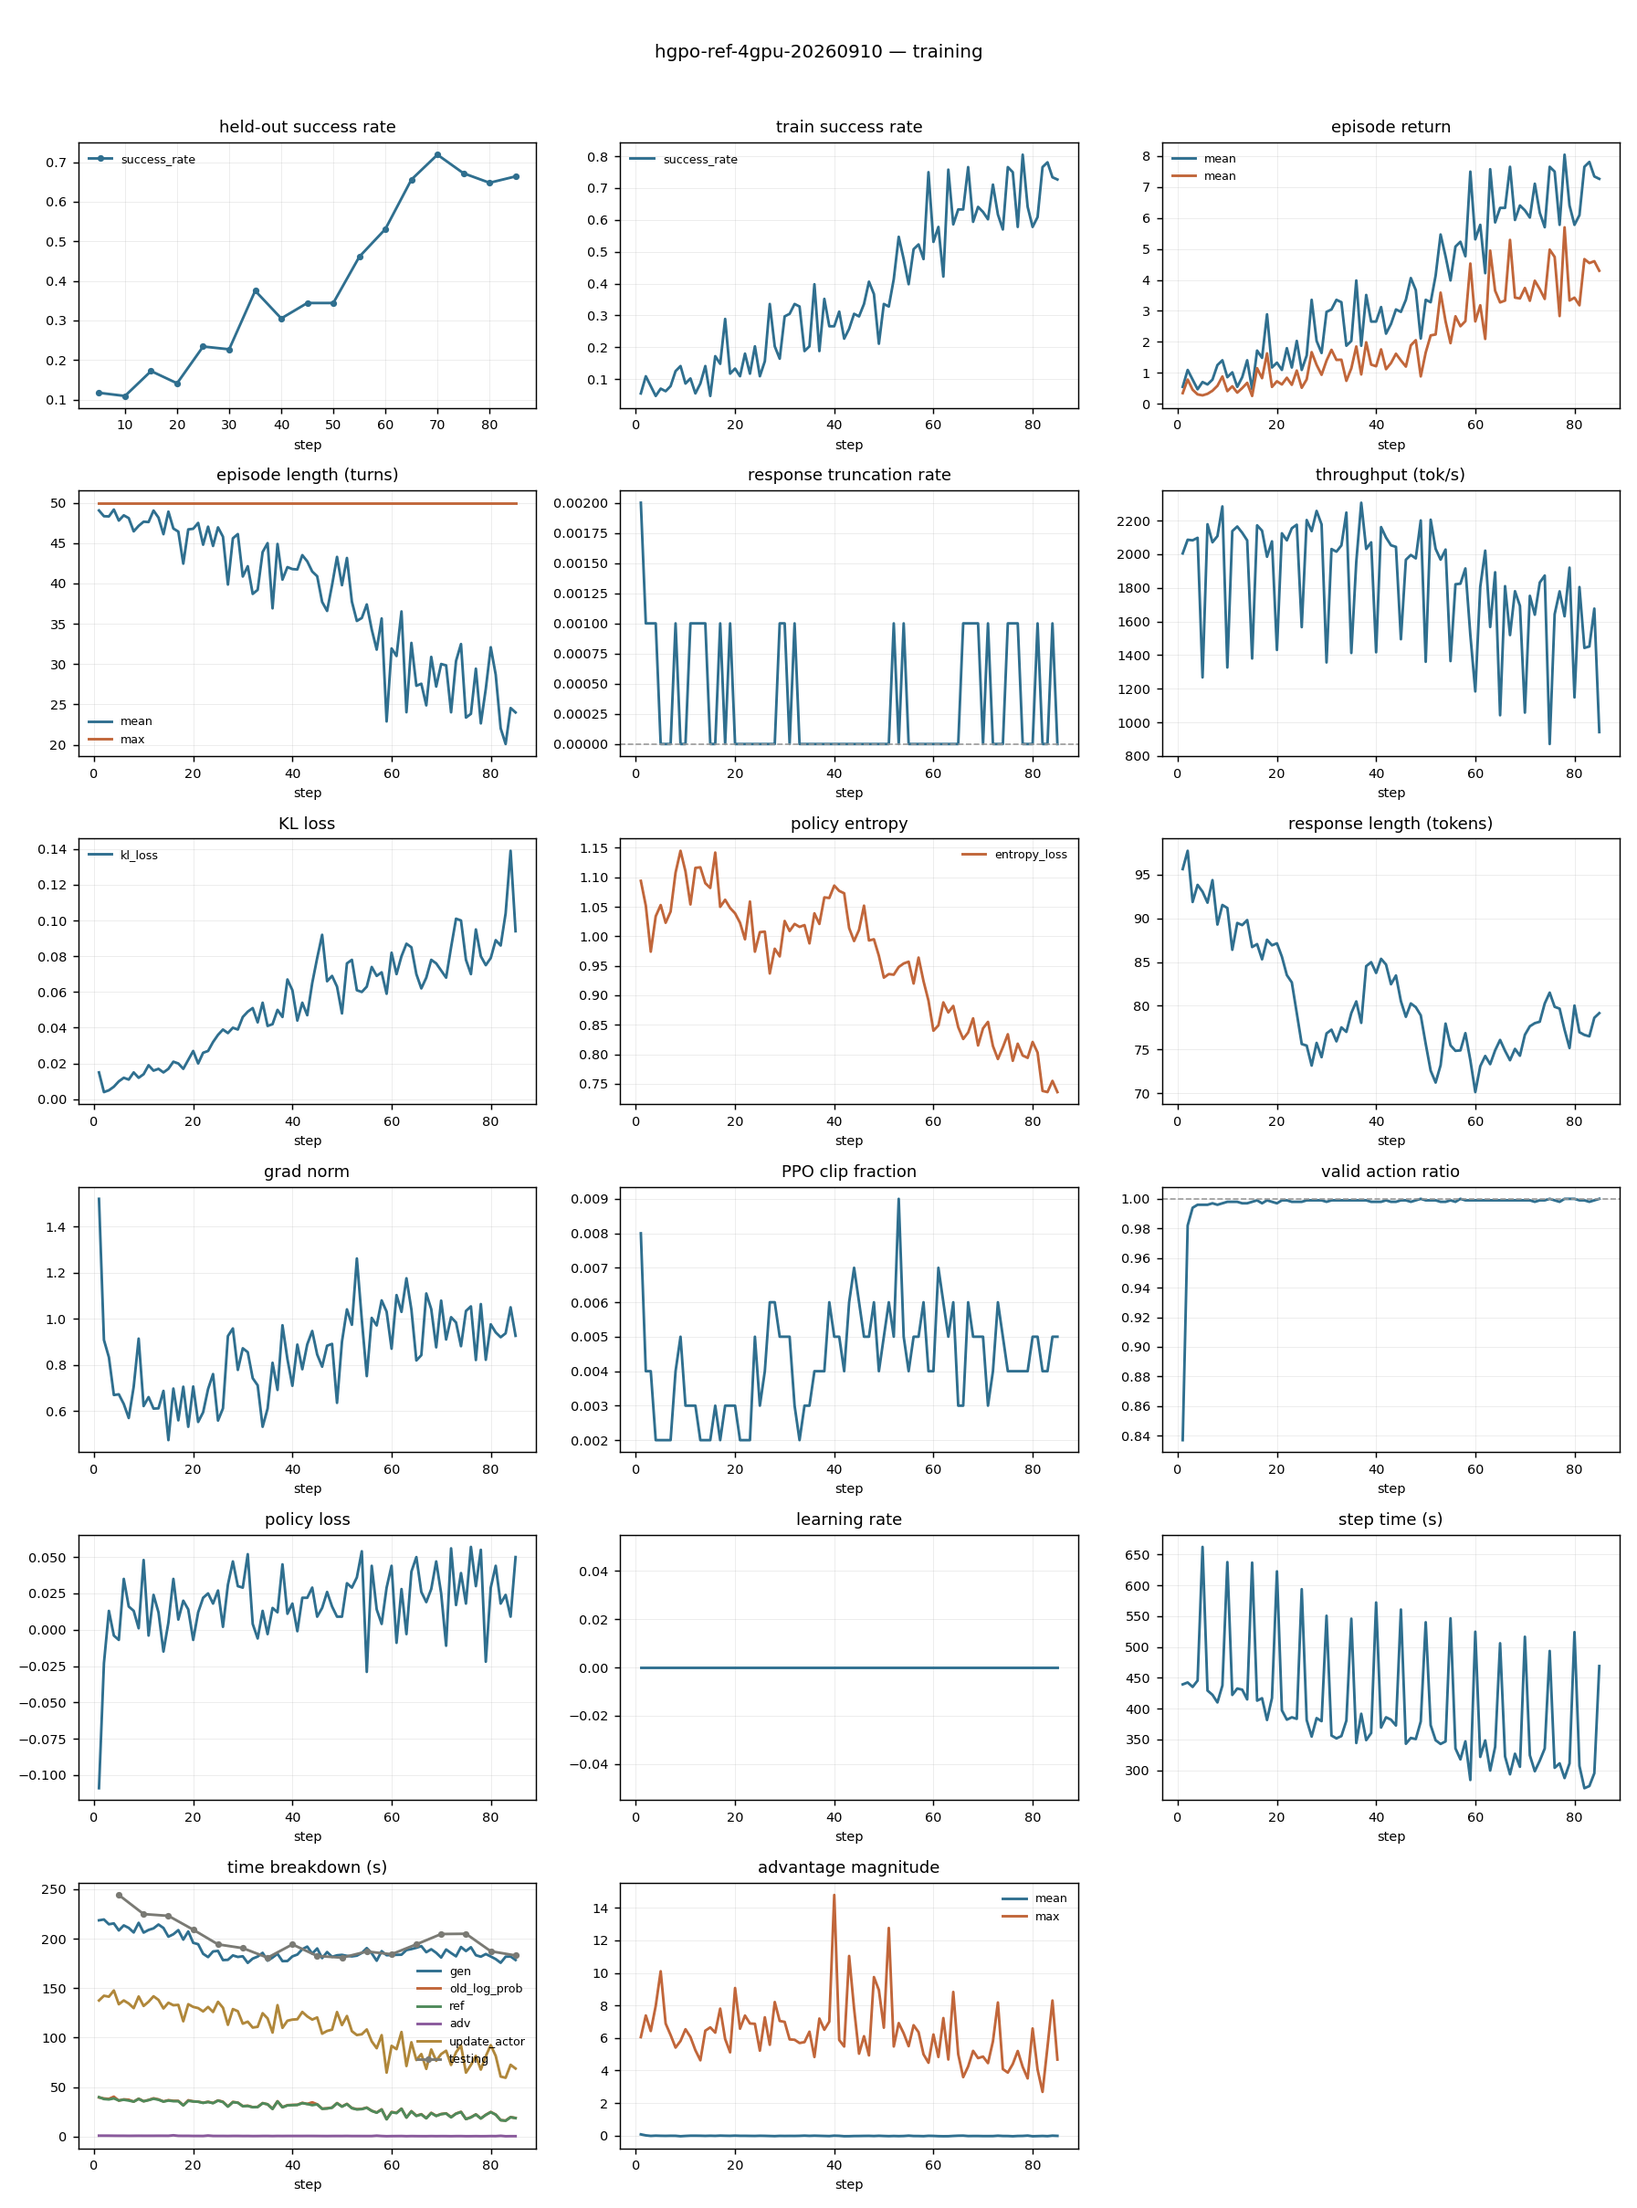
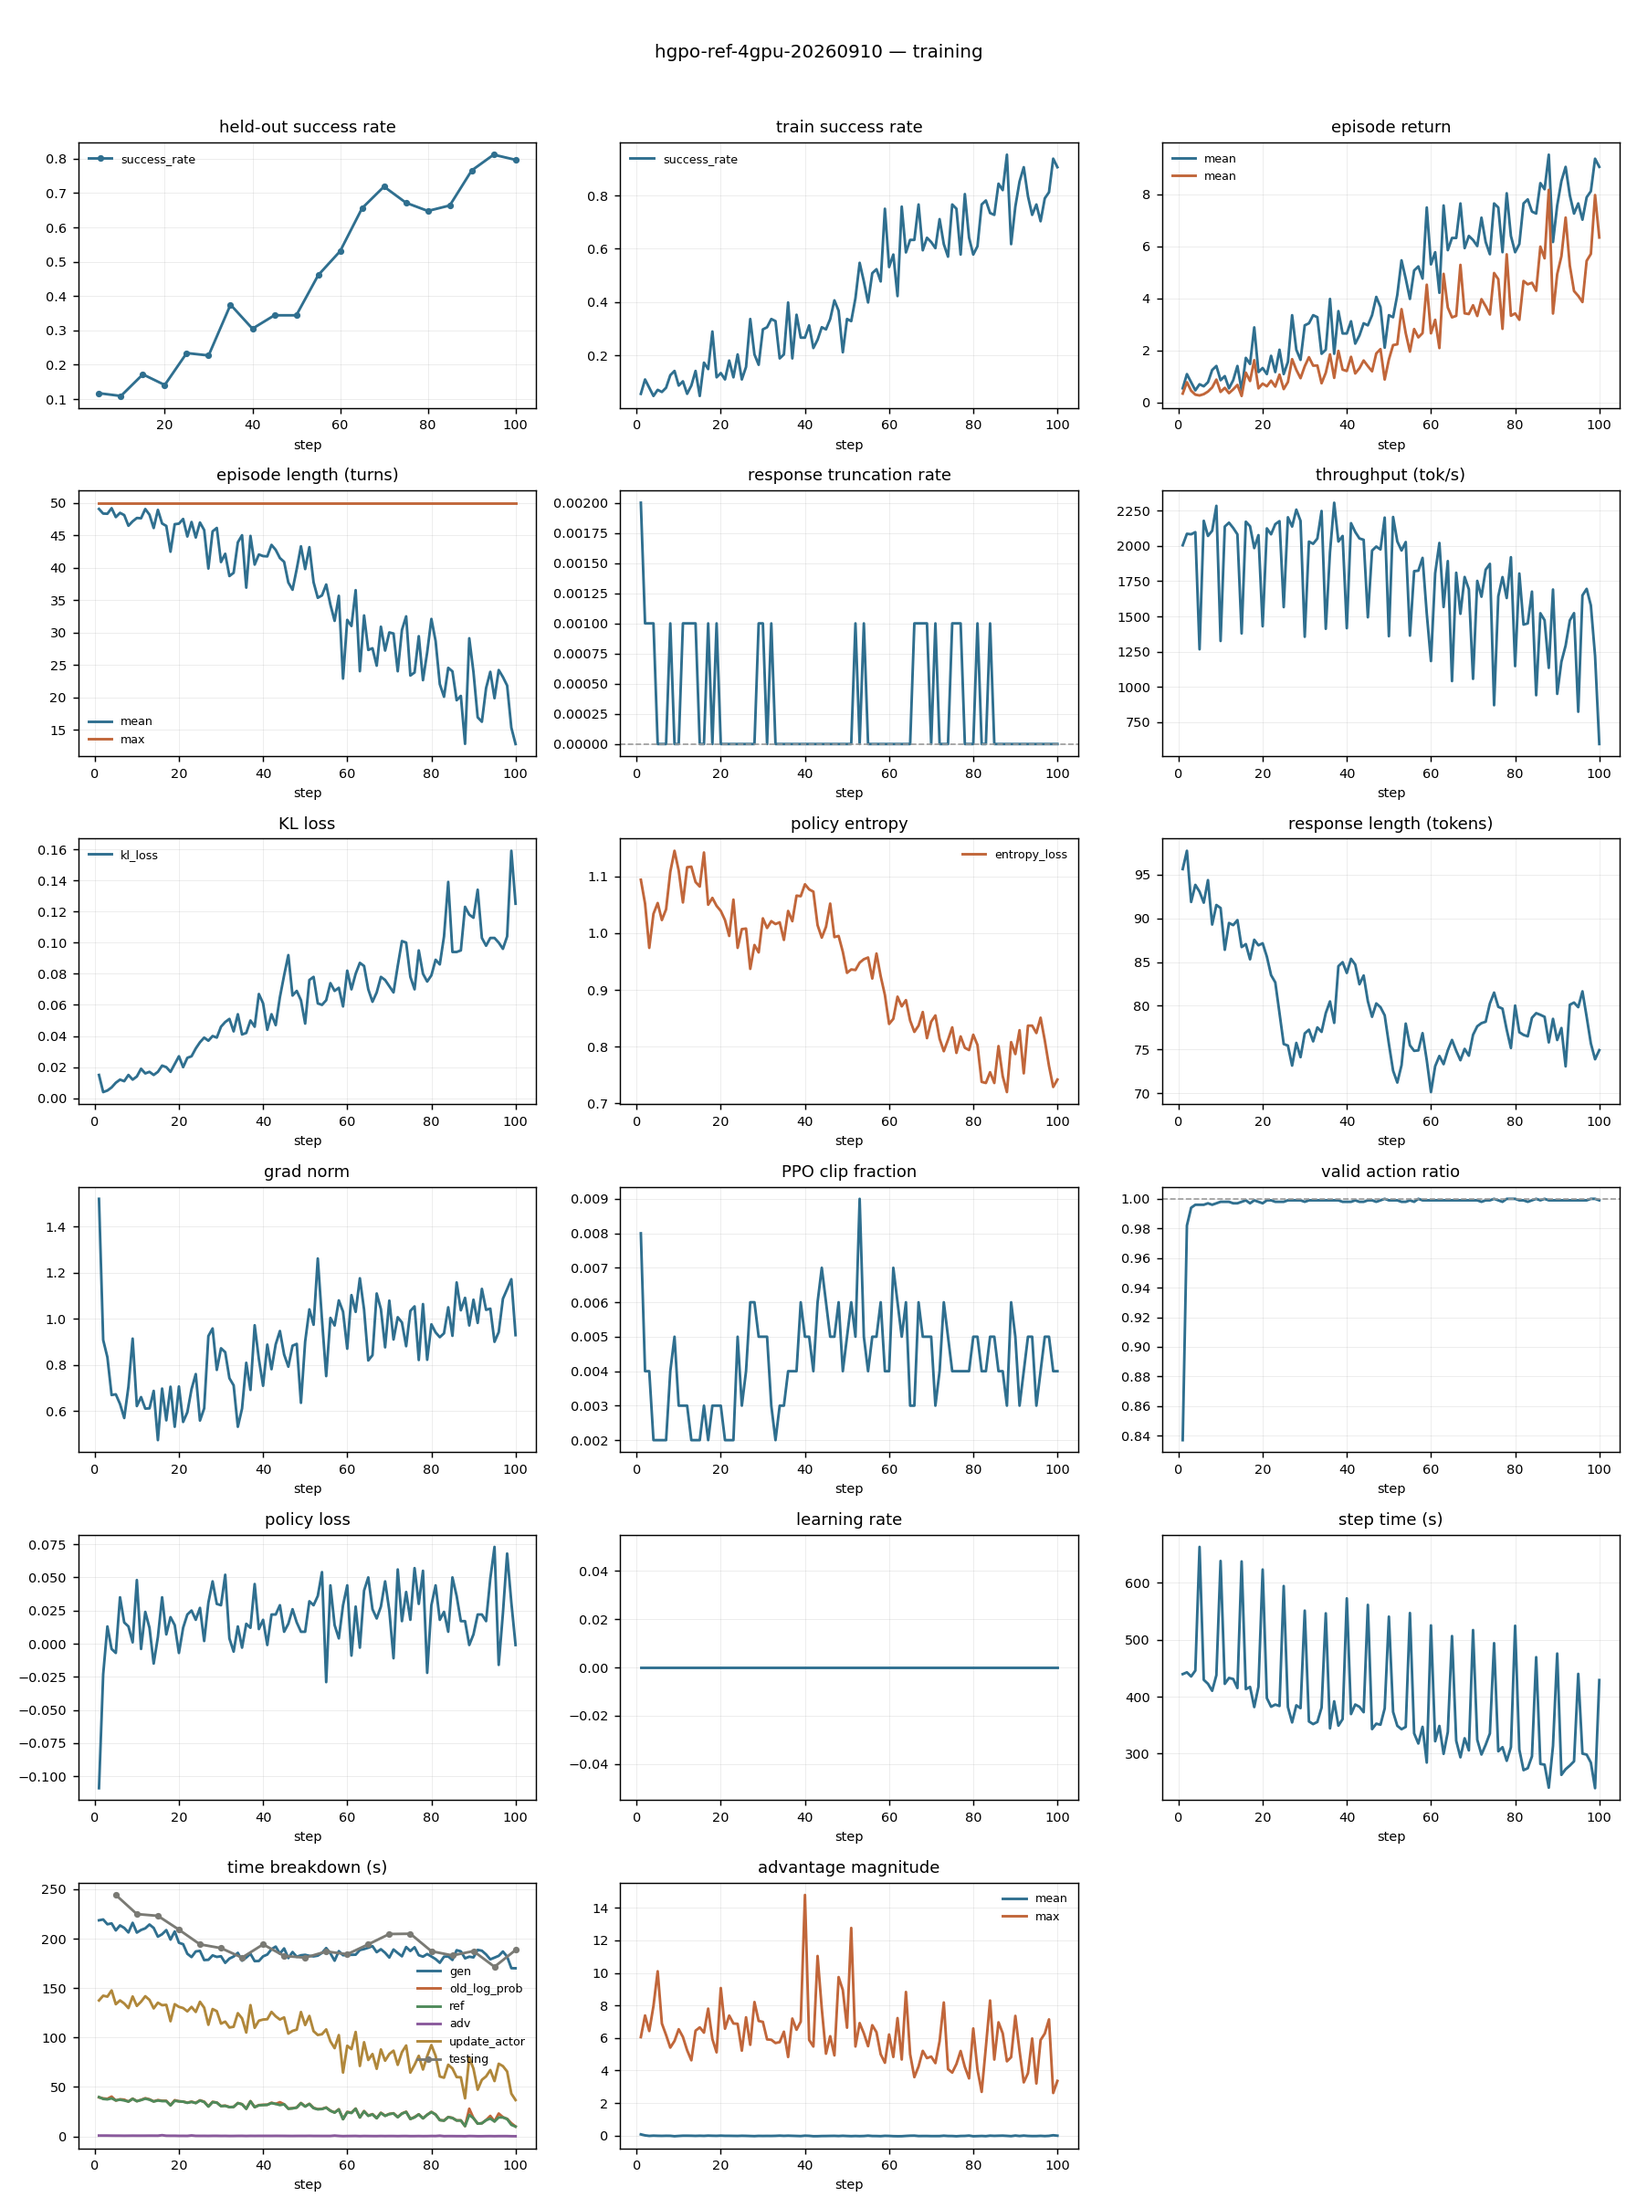
HGPO budget-matched result: 79.7 at step 100, tying ccpo-global
HGPO's own code, run on our stack, scores 79.7 held-out at step 100 (76.0 over the
window of steps 85-100). That matches our best arm, ccpo-global, at 79.7 (77.2
windowed), and both trail the G2PO reference at 91.4 (90.8 windowed) by about
14 points. At a matched 100-iteration budget, G2PO is the baseline to beat. The
step-100 weights are preserved as step100-budget, and the run continues to 160 for
HGPO's published protocol.

Claude-Session: https://claude.ai/code/session_017DQU5txeWCnCByqWCPa1CQ

diff --git a/docs/method.html b/docs/method.html
@@ -1110,6 +1110,7 @@ td .m{font-family:"IBM Plex Mono",monospace; font-size:.93em}
       <tbody>
         <tr><td class="dim">G&sup2;PO (published)</td><td class="num">100</td><td class="num">95.0 &plusmn; 0.8</td><td>3 seeds</td></tr>
         <tr><td class="dim">HGPO (published, K=2)</td><td class="num">160</td><td class="num">92.77</td><td>different budget &mdash; not matched</td></tr>
+        <tr><td class="dim">HGPO &mdash; <b>reproduced</b>, their code, our stack</td><td class="num">100</td><td class="num">79.7</td><td>budget-matched checkpoint of the 160-step run; window 85&ndash;100 = 76.0; <span class="m">hgpo-ref-4gpu-20260910</span></td></tr>
         <tr><td class="dim">GiGPO (published)</td><td class="num">150</td><td class="num">86.7 &plusmn; 1.7</td><td>different budget &mdash; not matched</td></tr>
         <tr style="background:rgba(200,60,50,.07)"><td class="dim"><b>G&sup2;PO &mdash; THEIR TREE, OUR HARDWARE</b></td><td class="num"><b>100</b></td><td class="num"><b>91.4</b></td><td><b>reproduction</b> &mdash; window mean 86.8, peak 95.3 @95; <span class="m">g2po-ref-20260909</span></td></tr>
         <tr class="ourrow"><td class="dim"><b>CCPO &mdash; global gate + edge term</b></td><td class="num"><b>100</b></td><td class="num"><b>79.7</b></td><td><b>ours, 1 seed</b> &mdash; <span class="m">ccpo-global-20260907</span></td></tr>
@@ -1282,8 +1283,9 @@ td .m{font-family:"IBM Plex Mono",monospace; font-size:.93em}
   </div>
 
   <p style="margin-top:14px"><b>Now running:</b> the <span class="m">HGPO</span> reference (its own code,
-  unmodified, 160 iterations, GPUs 0&ndash;3). Its step-100 weights and held-out score are kept for a
-  budget-matched comparison. <b>Queued behind it:</b> <span class="m">g2po-harness</span> (paused at step 5,
+  unmodified, 160 iterations, GPUs 0&ndash;3). <b>At the matched 100-iteration budget it scores 79.7</b>
+  (window 85&ndash;100: 76.0), which ties our best arm and sits ~14 points behind G&sup2;PO. It continues to 160
+  for its published protocol. <b>Queued behind it:</b> <span class="m">g2po-harness</span> (paused at step 5,
   resumable), then <span class="m">g2po-aff</span> and <span class="m">g2po-affonly</span>. The last is the only
   fully domain-agnostic test: our failure repair and admissible-action key are generic, but our invisible-state
   carry-forward copies G&sup2;PO's ALFWorld strings (<span class="m">"You heat"</span>,

diff --git a/experiments/hgpo-ref-4gpu-20260910/NOTES.md b/experiments/hgpo-ref-4gpu-20260910/NOTES.md
@@ -96,3 +96,18 @@ Rotation verified: `global_step_20` and `_40` keep only `data.pt` (6.5 KB, weigh
 deleted), while `_60` and `_80` are 19 GB each. At most two weight sets exist at a time.
 The session restarted at ~23:00; the run, queue, snapshot watcher and metrics mirror all
 survived it (all were launched with setsid), and only the Claude-side monitors were re-armed.
+
+## BUDGET-MATCHED RESULT at step 100 (2026-09-11 00:18)
+
+| held-out % | 85 | 90 | 95 | **100** | window 85-100 |
+|---|---|---|---|---|---|
+| **hgpo-ref-4gpu** | 66.4 | 76.6 | 81.2 | **79.7** | **76.0** |
+| G2PO reference | 89.1 | 87.5 | 95.3 | 91.4 | 90.8 |
+| ccpo-global (ours, best) | 75.8 | 75.0 | 78.1 | 79.7 | 77.2 |
+
+**At our 100-iteration budget, HGPO ties our best arm (window 76.0 vs 77.2, endpoint 79.7
+vs 79.7), and both trail G2PO by ~14 points.** G2PO is the baseline to beat at this
+budget. HGPO continues to 160 for its published protocol (92.77).
+
+Weights saved: `checkpoints/step100-budget` (snapshot 00:18:23, 19 GB, hard-linked so it
+survives the trainer's rotation at step 140).

diff --git a/experiments/hypothesis.md b/experiments/hypothesis.md
@@ -3324,3 +3324,12 @@ the "context conditioning on top of G2PO's partition" route at full weight.** Th
 untested variant is the EB-weighted one (`shrink=eb`), which by construction would stay
 within ~4% of G2PO and cannot beat it by much. The comparator for any future
 partition-side idea is `g2po-aff`, which is queued.
+
+
+### Measurement: HGPO reproduced at a matched 100-iteration budget (2026-09-11)
+
+HGPO's own code (`recipe/hgpo`, unmodified, 4 GPUs) at step 100 scores held-out **79.7**
+(window 85-100: **76.0**). That is level with our best arm, ccpo-global (79.7, window 77.2),
+and ~14 points behind G2PO (91.4, window 90.8). **Ranking at 100 iterations: G2PO >> HGPO
+≈ CCPO-global.** HGPO's published 92.77 is a 160-iteration number, and this run continues
+there. SOTA at matched budget is G2PO, so any claim of ours has to beat ~91.

diff --git a/HANDOFF.md b/HANDOFF.md
@@ -12,6 +12,8 @@ It uses **~13.8k of 20k pids** (256 env actors, with val envs pre-built, plus id
 workers), so nothing else can share the container while it runs.
 Pace is **442 s/step**: it ends around **09:00 on 2026-09-11**, with step 100 around
 01:30. The g2po arms queue behind it.
+**Step-100 result (budget-matched): HGPO 79.7 (window 85-100: 76.0)**, tying ccpo-global
+(79.7 / 77.2), with G2PO at 91.4 / 90.8. Weights are in `step100-budget`.
 
 **Disk (09:20)** — the shared filesystem was at 69 GB free (14 TB total, ours ~690 GB).
 `exp_run.py` now waits for >=80 GB before launching (`EXP_MIN_FREE_GB`). A running arm
